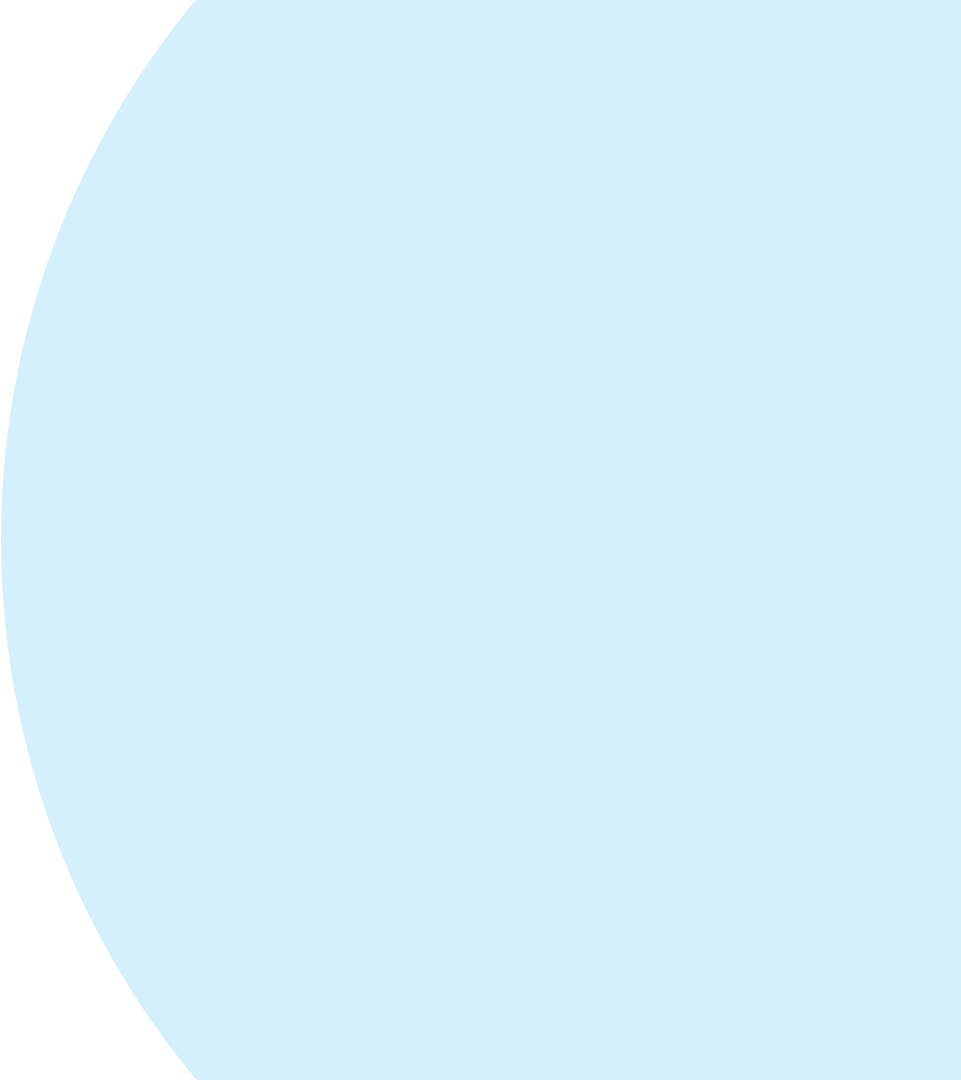
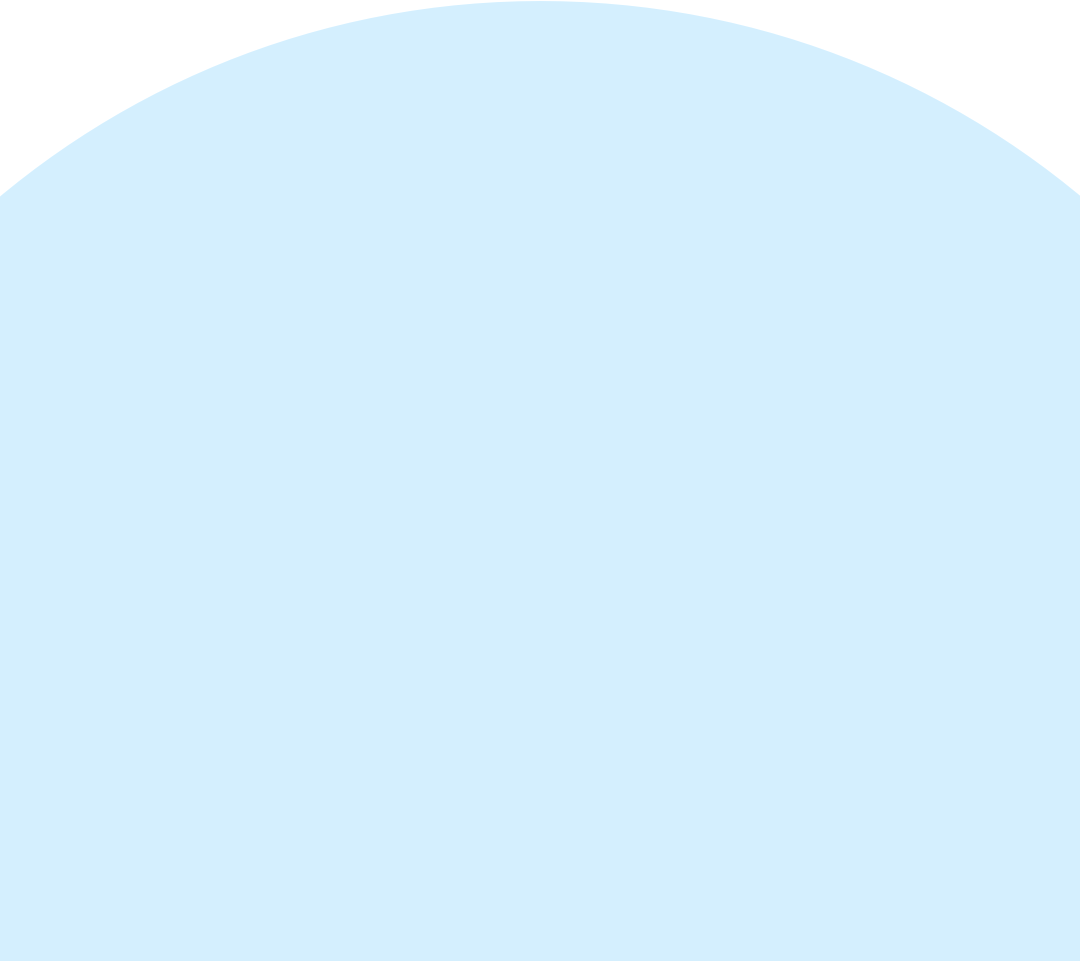
cleaned up hero section

diff --git a/src/components/home-page/home.module.css b/src/components/home-page/home.module.css
@@ -1,9 +1,18 @@
-.hero-row {
-  height: 75vh;
+.home-section {
+  position: relative;
 }
 
-.hero-col1 {
+.blue-home-img {
+  position: absolute;
+  top: 0;
+  right: 0;
+  width: 50%;
+  height: 100%;
+}
+
+.hero-section {
   position: relative;
+  height: 80vh;
 }
 
 .hero-col1-div {
@@ -22,47 +31,37 @@
   font-weight: 500;
 }
 
-.hero-col2 {
-  position: relative;
-}
-
 .blue-bkgd-img {
-  position: absolute !important;
-  top: -90px;
-  bottom: 0;
-  right: 0;
-  width: 50vw;
-  z-index: -10000;
+  display: none;
 }
 
 .profile-img {
   position: absolute !important;
-  bottom: 0;
+  bottom: 0px;
   right: 10vw;
   width: 350px;
 }
 
 @media (min-width: 1680px) {
   .profile-img {
-    width: 400px;
+    width: 450px;
   }
 }
 
 /* iPad Pro 12 Landscape View */
 @media only screen and (min-device-width: 1366px) and (max-device-width: 1366px) and (min-device-height: 1024px) and (max-device-height: 1024px) and (min-width: 1366px) and (max-width: 1366px) and (orientation: landscape) {
-  .hero-row {
+  .hero-section {
     height: 60vh;
   }
 }
 
 @media (min-width: 992px) and (max-width: 1199px) {
-  .hero-row {
+  .blue-home-img {
+    width: 55%;
+  }
+  .hero-section {
     height: 70vh;
   }
-  .blue-bkgd-img {
-    width: 55vw;
-  }
-
   .profile-img {
     width: 320px;
   }
@@ -70,13 +69,16 @@
 
 /* iPad Pro 12 Portrait View */
 @media only screen and (min-device-width: 1024px) and (max-device-width: 1024px) and (min-device-height: 1366px) and (max-device-height: 1366px) and (min-width: 1024px) and (max-width: 1024px) and (orientation: portrait) {
-  .hero-row {
+  .hero-section {
     height: 40vh !important;
   }
 }
 
 @media (max-width: 991px) {
-  .hero-row {
+  .blue-home-img {
+    display: none;
+  }
+  .hero-section {
     height: 100%;
   }
   .hero-col1-div {
@@ -90,9 +92,11 @@
   }
   .hero-title {
     font-size: 5rem;
+    text-align: center;
   }
   .hero-subtitle {
     font-size: 1.5rem;
+    text-align: center;
   }
   .hero-btn {
     display: block;
@@ -100,18 +104,13 @@
     margin-right: auto;
   }
   .hero-col2 {
-    margin-top: 100px;
+    margin-top: 200px;
   }
   .blue-bkgd-img {
-    position: relative !important;
-    top: 0;
-    width: 100%;
-    transform: rotate(90deg);
-    margin-bottom: -4.5vh;
+    display: block;
   }
   .profile-img {
     right: 15vw;
-    bottom: 0;
     width: 70vw;
   }
 }
@@ -125,15 +124,5 @@
   }
   .hero-subtitle {
     font-size: 1.3rem;
-  }
-  .hero-col2 {
-    margin-top: 200px;
-  }
-  .blue-bkgd-img {
-    margin-bottom: -3vh;
-  }
-  .profile-img {
-    right: 5vw;
-    width: 90vw;
   }
 }

diff --git a/src/components/home-page/01b-blue-home-img.js b/src/components/home-page/01b-blue-home-img.js
@@ -4,10 +4,10 @@ import { useStaticQuery, graphql } from 'gatsby';
 
 import * as HomeStyle from './home.module.css';
 
-const BlueBkgdImg = () => {
+const BlueHomeImg = () => {
   const data = useStaticQuery(graphql`
     {
-      file(relativePath: { eq: "blue-bkgd.png" }) {
+      file(relativePath: { eq: "blue-home.png" }) {
         childImageSharp {
           gatsbyImageData(layout: FULL_WIDTH)
         }
@@ -16,11 +16,11 @@ const BlueBkgdImg = () => {
   `);
   return (
     <GatsbyImage
-      className={HomeStyle.blueBkgdImg}
+      className={HomeStyle.blueHomeImg}
       alt='blue background'
       image={data.file.childImageSharp.gatsbyImageData}
     />
   );
 };
 
-export default BlueBkgdImg;
+export default BlueHomeImg;

diff --git a/src/pages/index.js b/src/pages/index.js
@@ -2,10 +2,14 @@ import React from 'react';
 import Layout from '../components/layout/layout';
 import Seo from '../components/seo';
 
+import BlueHomeImg from '../components/home-page/01b-blue-home-img';
 import HeroSection from '../components/home-page/01-hero-section';
 
+import * as HomeStyle from '../components/home-page/home.module.css';
+
 const HomePage = () => (
-  <div>
+  <div className={HomeStyle.homeSection}>
+    <BlueHomeImg />
     <Layout>
       <Seo title='Natalie Cervantes' />
       <HeroSection />

diff --git a/src/components/home-page/01-hero-section.js b/src/components/home-page/01-hero-section.js
@@ -7,9 +7,9 @@ import ProfileImg from './01c-profile-img';
 import * as HomeStyle from './home.module.css';
 
 const HeroSection = () => (
-  <div>
-    <Row className={HomeStyle.heroRow}>
-      <Col className={`${HomeStyle.heroCol1}`} lg={6}>
+  <div className={HomeStyle.heroSection}>
+    <Row>
+      <Col lg={6}>
         <HersoContent />
       </Col>
       <Col className={HomeStyle.heroCol2} lg={6}>
